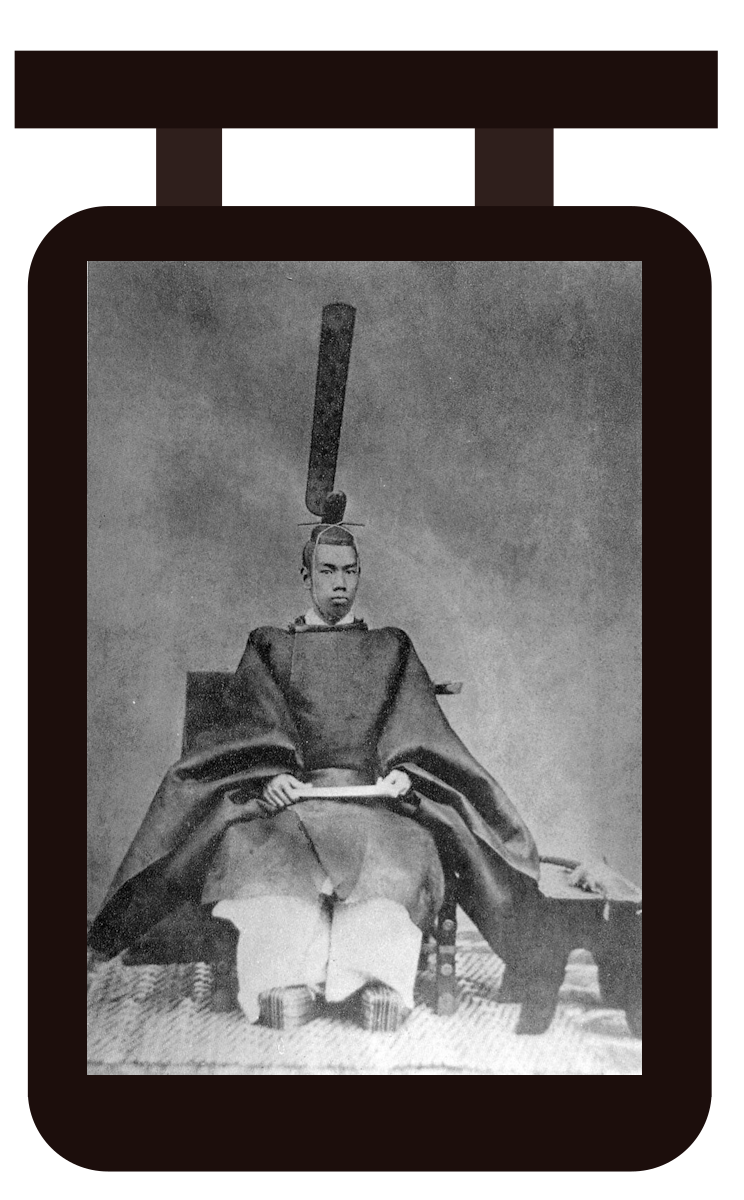
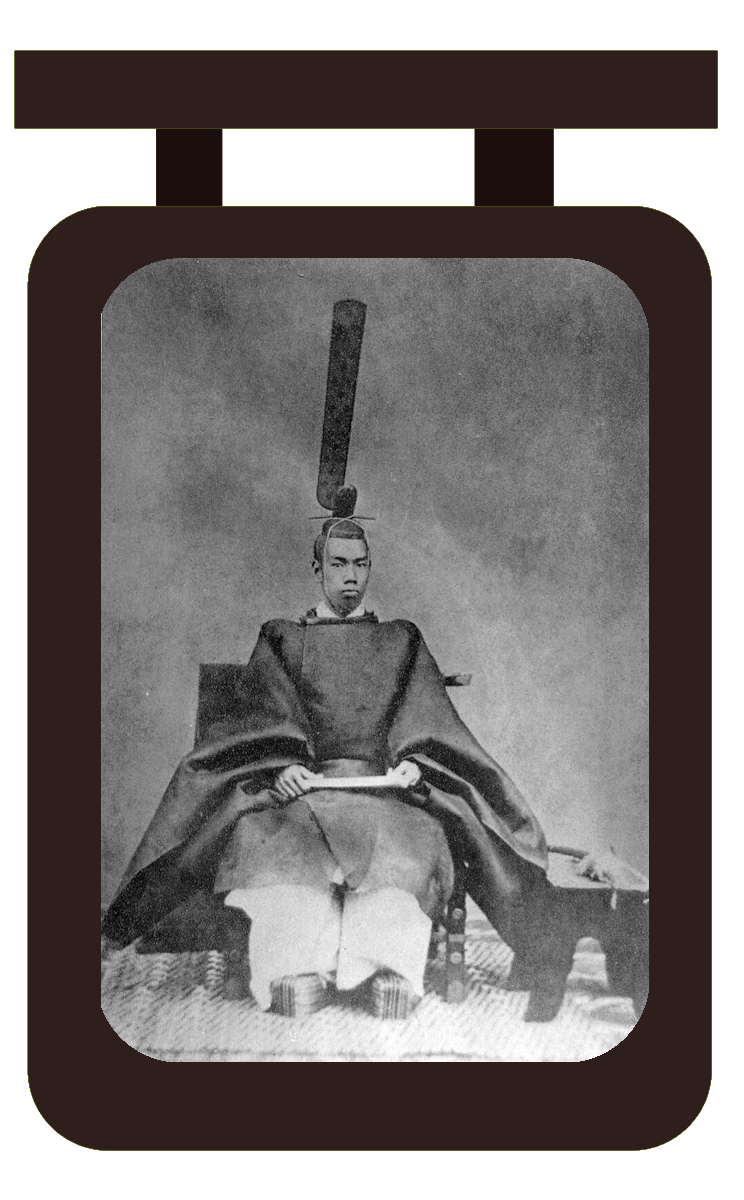
cedule

diff --git a/index.html b/index.html
@@ -100,19 +100,41 @@ h2 {
 
 .cedule img {
     position: absolute;
-    right: -44%;
     top: 0%;
     width: auto;
     height: auto;
-    max-width: 45%;
-    max-height: 90%;
     pointer-events: none;
     z-index: 0;
 }
 
+#cedule1 {
+    right: -32%;
+    width: 33%;
+    max-height: 95%;
+}
+#cedule2 {
+    left: -29%;
+    width: 30%;
+    max-height: 95%;
+}
+#cedule3 {
+    right: -32%;
+    width: 33%;
+    max-height: 95%;
+}
+#cedule4 {
+    left: -29%;
+    width: 30%;
+    max-height: 95%;
+}
+#cedule5 {
+    right: -30%;
+    width: 31%;
+    max-height: 95%;
+}
+
 #roof1 {width: 80%;}
 #box1 {width: 48%;}
-#cedule1 {width: 100%;}
 
 #roof2 {width: 84%;}
 #box2 {width: 52%;}
@@ -147,7 +169,7 @@ h2 {
                 <p>Obchod s ostatními mocnostmi byl omezen, Japonsko bylo izolované (politika sakoku, kdy Japonsko minimalizovalo styky s ostatními státy a kontrolovalo zahraniční obchod), ale v roce 1853 přiměl americký admirál Perry Japonsko otevřít přístavy.</p>
                 <p>Vládla silná hierarchie, která rozdělovala společnost na obchodníky, řemeslníky, rolníky a samuraje, kde samuraj bylo velmi prestižní postavení. Ekonomika byla hlavně zemědělská. Japonsko bylo méně technologicky vyvinuté než některé západní kolonie. Jako jeden z faktorů, které brzdily rozvoj, byl považován feudalismus, takže změna nemohla být daleko.</p>
                 <div class="cedule">
-                    <img src="cedule1.png" alr="cedule1" id="cedule1">
+                    <img src="cedule1.png" alt="cedule1" id="cedule1">
                 </div>
             </div>
 
@@ -160,6 +182,9 @@ h2 {
                 <p>V roce 1877 proběhlo Sacumské povstání, kde se samurajové dožadovali dodržení slibů a zachování tradic. Povstání bylo ale rychle potlačeno pomocí střelných zbraní.</p>
                 <p>Během tohoto konfliktu údajně zemřelo více než 40 tisíc samurajů. Technologický rozvoj v Japonsku v roce 1876 popisuje i film Poslední samuraj od Edwarda Zwicka s Tomem Cruisem v hlavní roli.</p>
                 <p>Japonsko se stalo spojencem Velké Británie, která v té době stále byla velmi mocným státem, podepsáním smlouvy v roce 1902. Cílem těchto reforem bylo stát se mocným státem.</p>
+                <div class="cedule">
+                    <img src="cedule2.png" alt="cedule2" id="cedule2">
+                </div>
             </div>
 
             <div class="floor" id="roof3"><img src="strecha2.png" alt="střecha"></div>
@@ -173,6 +198,9 @@ h2 {
                 <p>Začaly se stavět továrny, telegrafy a výrazně se zlepšily vztahy a komunikace se západem. Mezitím Japonsko vyhrálo války proti Číně. Společenské změny zahrnovaly industrializaci, rozvoj školství a uvolnění hranic.</p>
                 <p>Od roku 1904 Japonsko válčilo s Ruskem o Madžusko a Koreu, válku vyhrálo o rok později, kde dokonce získalo část ostrova Sachalin.</p>
                 <p>Díky těmto modernizacím se Japonsko dokázalo dostat mezi mocné strany, dokázalo se vyrovnat západu a technologicky překonalo ostatní asijské státy.</p>
+                <div class="cedule">
+                    <img src="cedule3.png" alt="cedule3" id="cedule3">
+                </div>
             </div>
 
             <div class="floor" id="roof4"><img src="strecha2.png" alt="střecha"></div>
@@ -182,6 +210,9 @@ h2 {
                 <p>Jedním z nejznatelnějších byla nadměrná rychlost modernizace Japonska. Věc zdající se jako pozitivum vedla k intenzivním pocitům nadřazenosti vůči jejich sousedům v asijském prostoru. To časem vyústilo ve snahu stát se novou velmocí kolonizací blízkých zemí.</p>
                 <p>Tyto snahy vedly k získání a následnému ztracení moci nad územím Koreji a Mandžuska. Příčinou ztráty byl hlavně ruský zájem v daných oblastech a podpora těchto zájmů ze strany Francie a Německa. Japonsku tak zůstal pouze Tchaj-wan a Pescadorské ostrovy. Mocenský vliv v Koreji se však po válce s Ruskem Japonsku navrátil.</p>
                 <p>Docházelo také k znesvěcení a zničení mnohých památek. Příkladem je zničení mnoha hradů, které náhle připadly císaři a ten pro ně neviděl využití. Dalším příkladem je systematické zničení až desítek tisíců japonských buddhistických náboženských idolů a chrámů za účelem separace buddhismu a šintoismu. To zapříčinilo zavedení nového státního šintoistického kultu kokka šintó (国家神道). Koncepty kulturní památky, pro které je v moderní době Japonsko známé, si Japonci osvojili až mnohem později.</p>
+                <div class="cedule">
+                    <img src="cedule4.png" alt="cedule4" id="cedule4">
+                </div>
             </div>
 
             <div class="floor" id="roof5"><img src="strecha2.png" alt="střecha"></div>
@@ -191,6 +222,9 @@ h2 {
                 <p>Po přidání se ke státům Dohody během 1. světové války Japonsko sdílelo místo při mírové konferenci ve Versailles společně s tehdejšími giganty jako je Francie a Británie. Jejich exkluze ale byla jasná, například z velkých válečných kořistí, které si brali primárně již zmíněné velmoce. Také snaha Japonska o zahrnutí doložky o rasové rovnosti do preambule nové Společnosti národů byla odhlasována.</p>
                 <p>Tyto zklamání přispěly k hospodářské krizi a rychlému růstu obyvatelstva. K tomu také v Japonsku zesilovala armáda a nastupoval militarismus, avšak názory v armádě nebyly jednotné (což vedlo mimo jiné i k pokusům svrhnout tehdejšího císaře Hirohita). To vše vyústilo v expanzi do Číny.</p>
                 <p>Začátkem byla invaze Mandžuska v 1932 a o 5 let později tažení do centra Číny, a koncem třicátých let začali expandovat na jih francouzské Indočíny. Společnost národů pochopitelně požadovala po Japonsku, aby stáhla své jednotky z Číny, to však Japonsko odmítlo a opustilo Společnost národů, kvůli čemuž však Amerika omezila dovážky ropy do Japonska. V roce1940 Japonsko podepsalo trojstrannou dohodu s Německem a Itálií, ale silně si uškodilo útokem na Pearl Harbor, čímž přitáhlo Ameriku do 2. světové války. Do roku 1942 Japonsko ovládalo většinu východní Asie, i když tomu nebylo nadlouho.</p>
+                <div class="cedule">
+                    <img src="cedule5.png" alt="cedule5" id="cedule5">
+                </div>
             </div>
 
             <div class="base" id="base"><img src="base.png" alt="base"></div>
